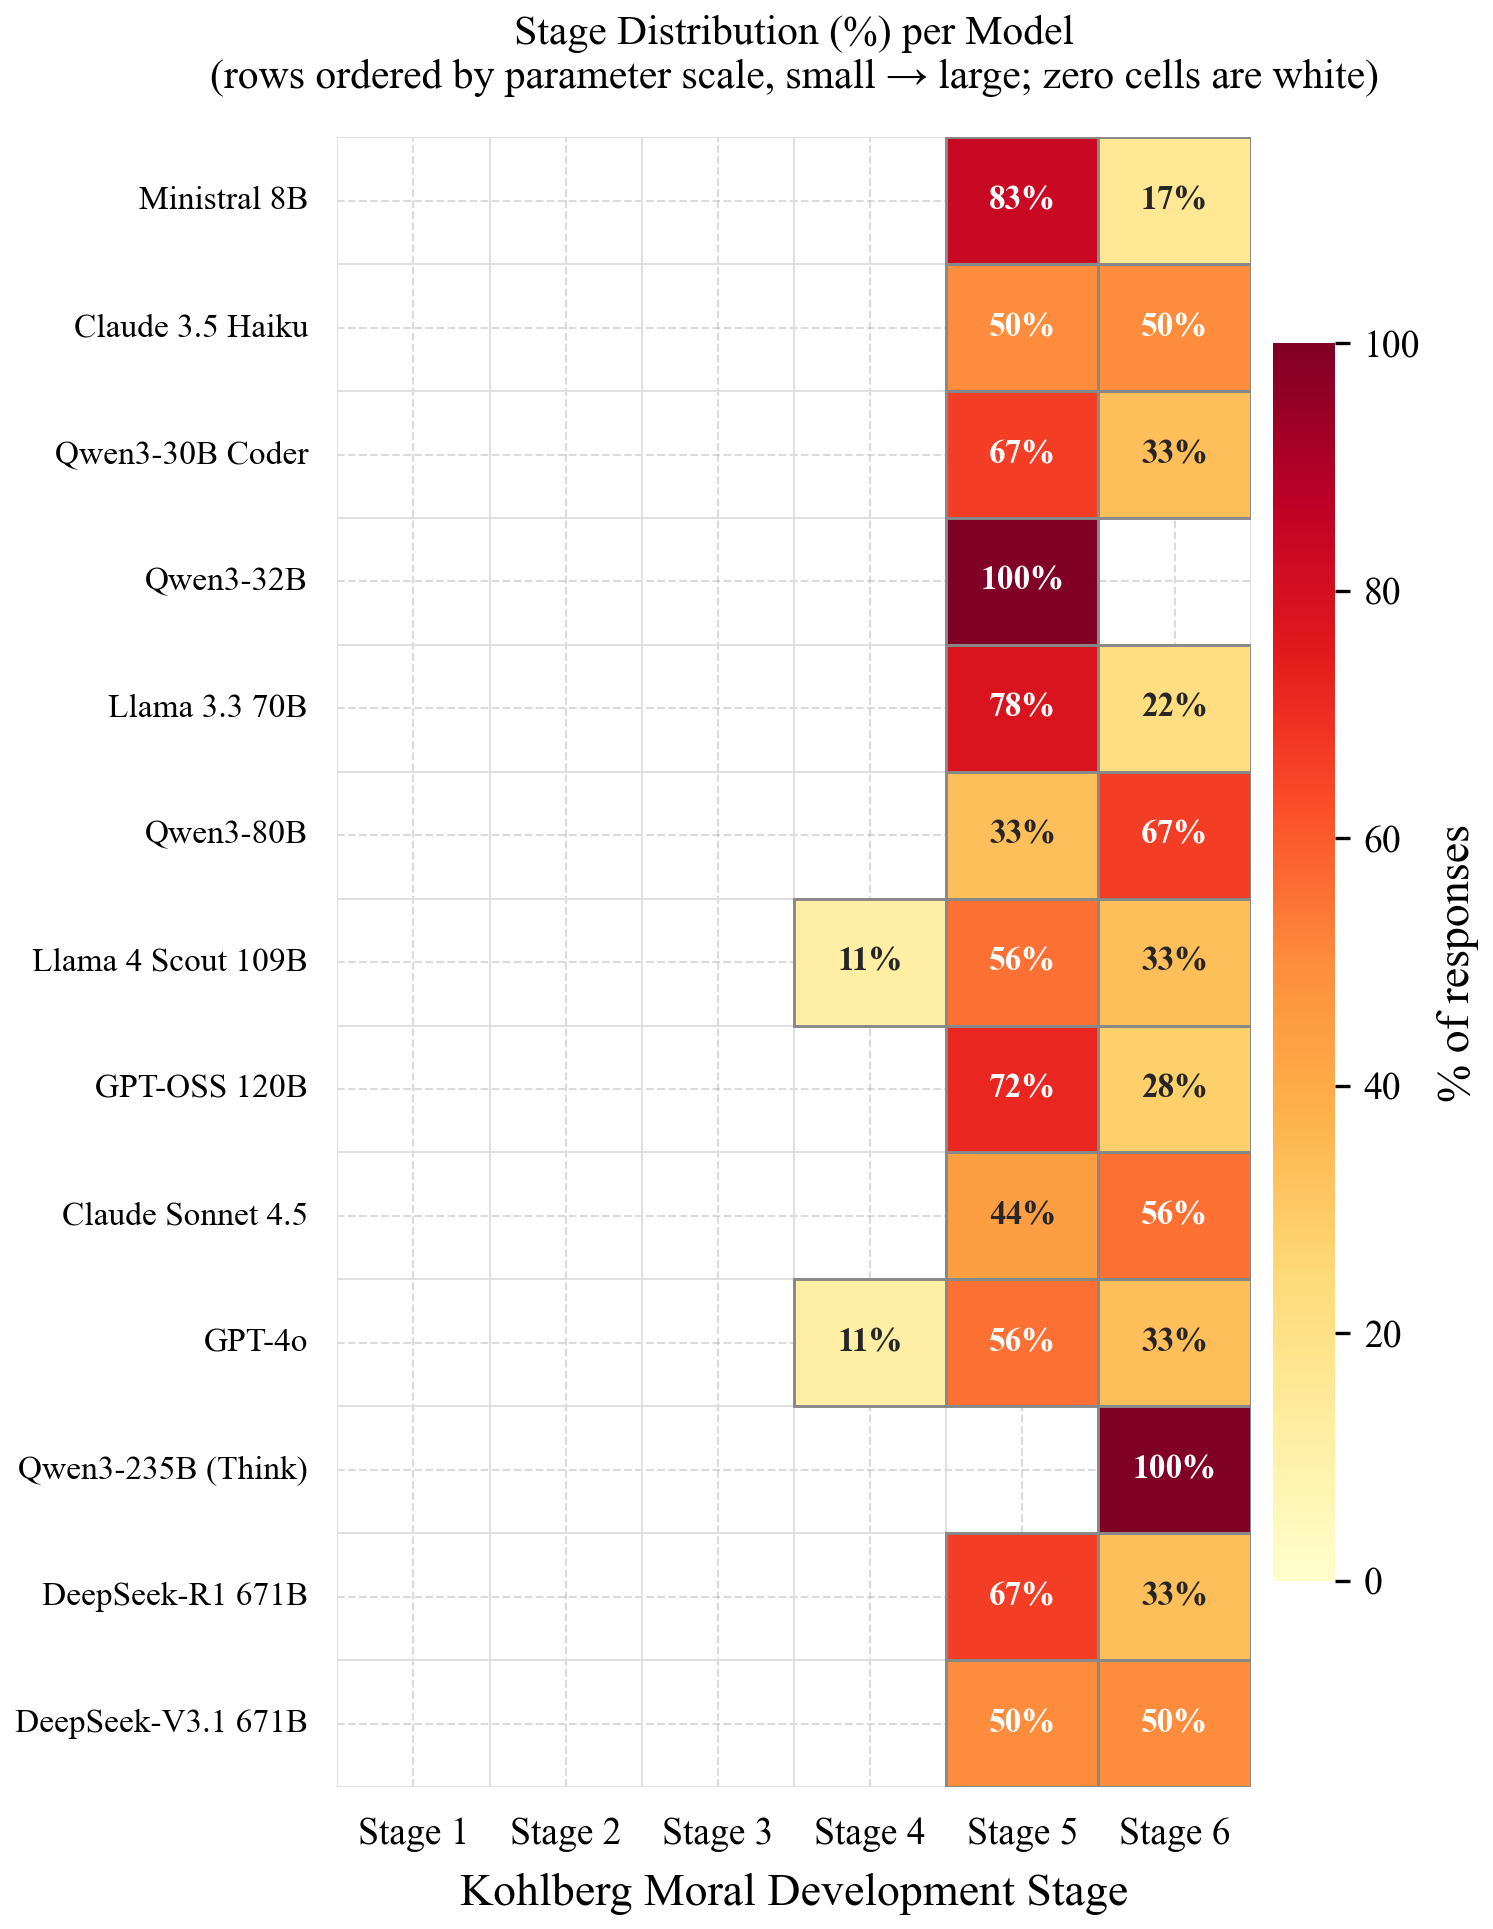
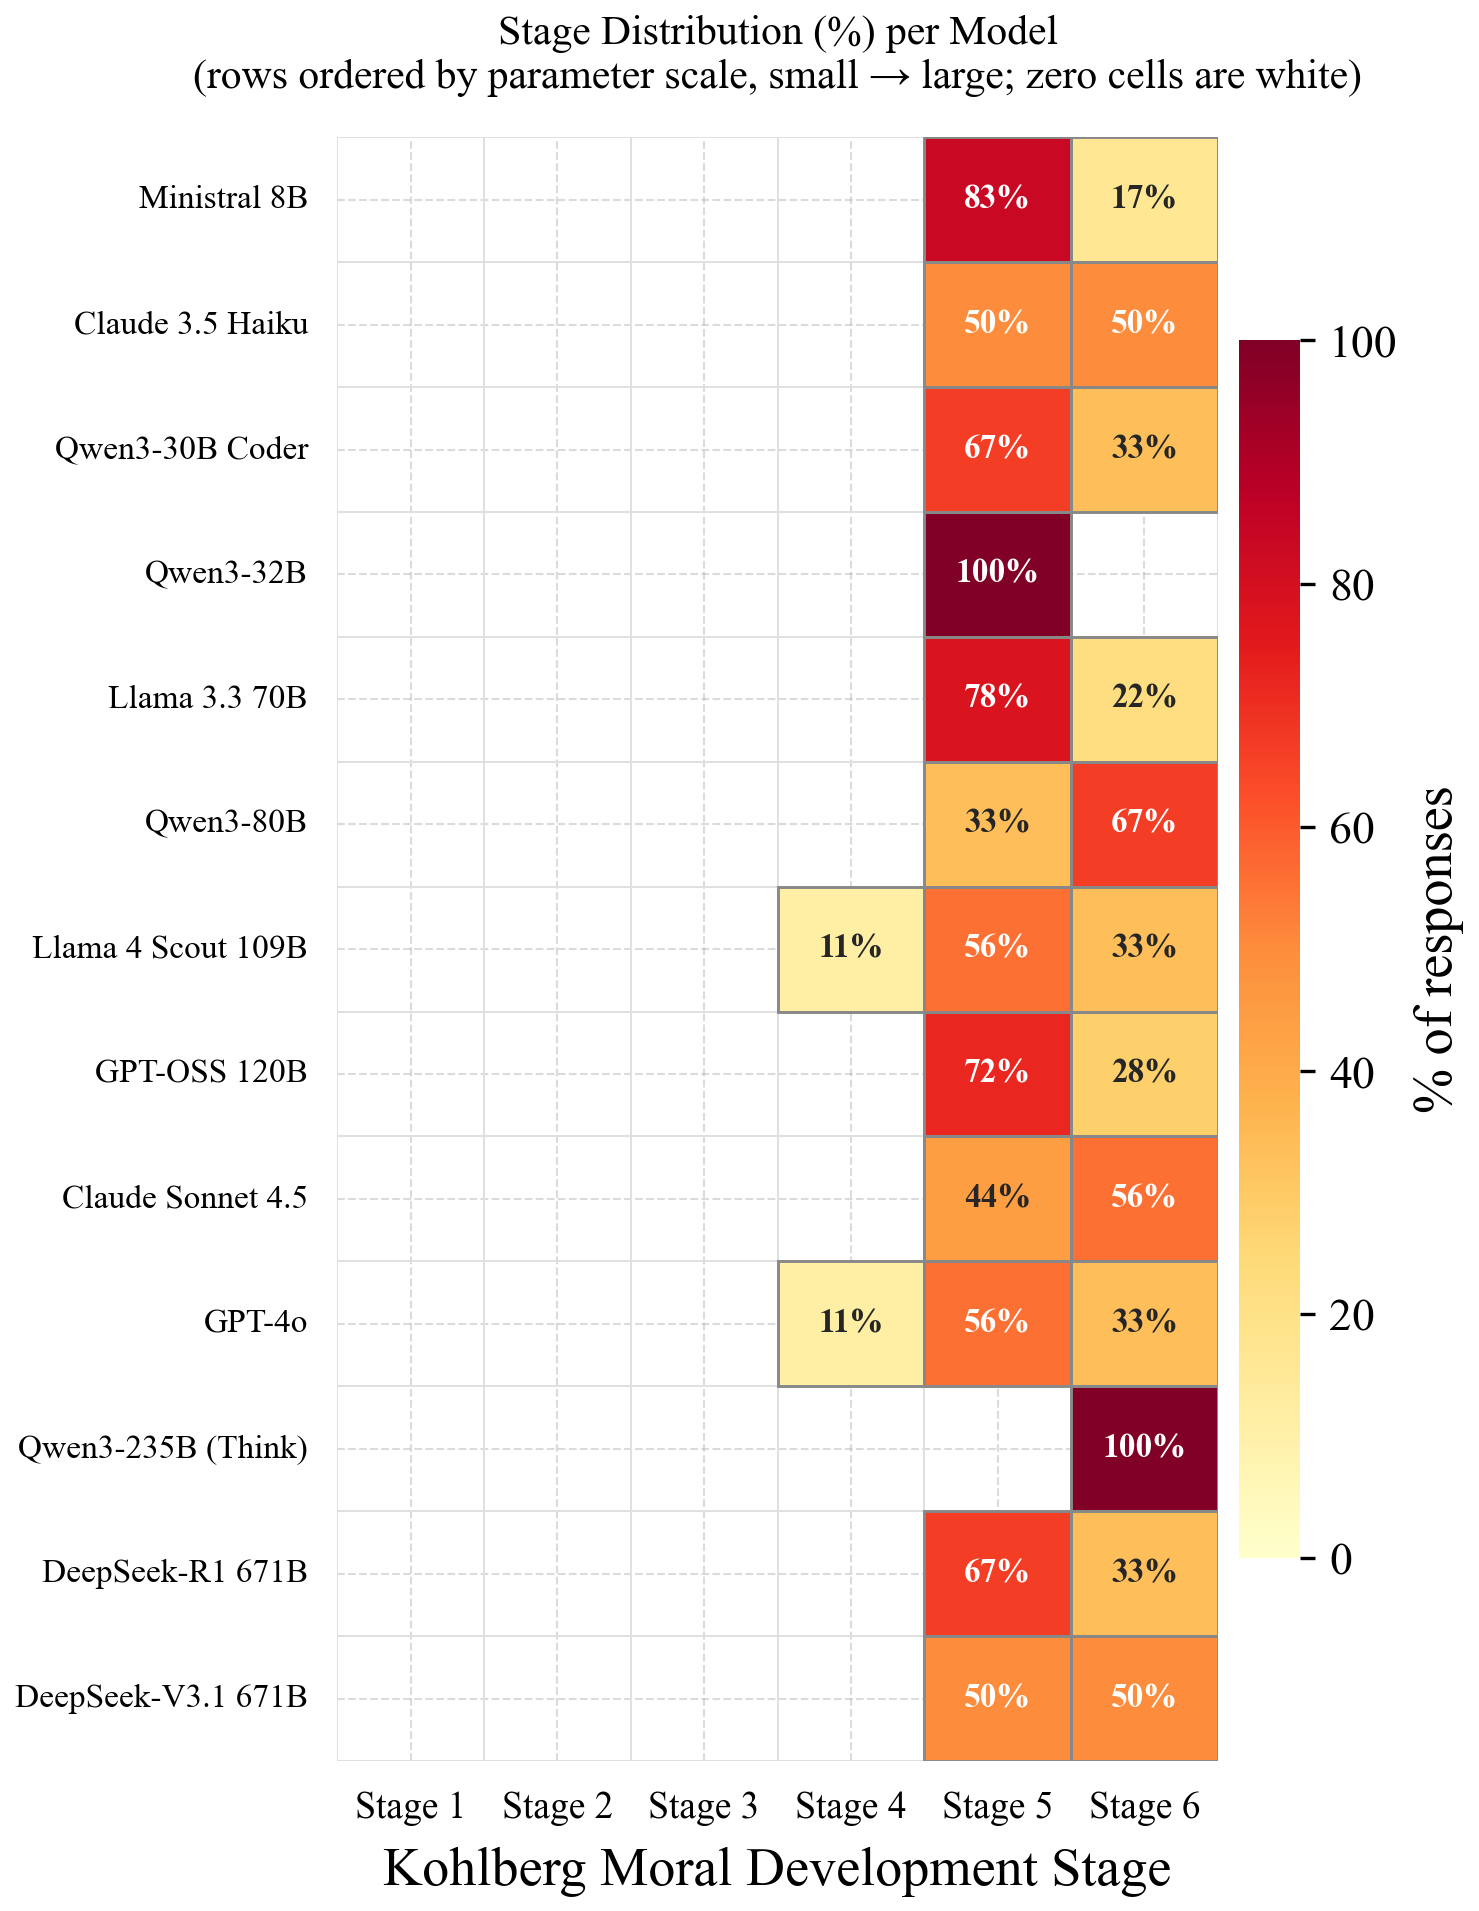
Changes in the analysis1 graphs

diff --git a/analysis1/visualizations.py b/analysis1/visualizations.py
@@ -122,23 +122,24 @@ def plot_box_by_model(
 
         # Annotate median
         ax.text(med_val + 0.04, i + 1.32, f"{med_val:.1f}",
-                va="bottom", ha="left", fontsize=7.5,
+                va="bottom", ha="left", fontsize=10,
                 color=color, fontweight="bold")
 
     ax.set_yticks(range(1, n + 1))
-    ax.set_yticklabels(order, fontsize=8.5)
+    ax.set_yticklabels(order, fontsize=11)
     ax.set_xticks(range(1, 7))
     ax.set_xticklabels(
         ["S1\nObedience", "S2\nSelf-Interest", "S3\nConformity",
          "S4\nLaw & Order", "S5\nSocial Contract", "S6\nUniversal Ethics"],
-        fontsize=8.5,
+        fontsize=11,
+        rotation=30,
     )
     ax.set_xlabel("Kohlberg Moral Development Stage", labelpad=6)
     ax.set_title(
         "Distribution of Kohlberg Moral Reasoning Stage by Model\n"
         r"(ordered by parameter scale; $\diamondsuit$ = outlier, "
         "coloured line = median)",
-        fontsize=10, pad=10,
+        fontsize=13, pad=10,
     )
     ax.set_xlim(0.5, 6.7)
 
@@ -195,7 +196,7 @@ def plot_scatter_scale_stage(
         t = ax.text(
             row["log_params"], row["mean_stage"],
             row["display_name"],
-            fontsize=6.5, alpha=0.88,
+            fontsize=9.0, alpha=0.88,
         )
         texts.append(t)
 
@@ -234,7 +235,7 @@ def plot_scatter_scale_stage(
     ax.text(
         0.03, 0.97, corr_text,
         transform=ax.transAxes,
-        fontsize=7.5, va="top", ha="left",
+        fontsize=10, va="top", ha="left",
         bbox=dict(boxstyle="round,pad=0.4", facecolor="white",
                   edgecolor="#cccccc", linewidth=0.6, alpha=0.92),
     )
@@ -252,7 +253,7 @@ def plot_scatter_scale_stage(
     tick_lbl = [nice_labels[nice_log.index(t)] for t in tick_log]
 
     ax.set_xticks(tick_log)
-    ax.set_xticklabels(tick_lbl, fontsize=9)
+    ax.set_xticklabels(tick_lbl, fontsize=11)
     ax.set_xlim(x_lo, x_hi)
 
     # Light vertical grid lines at the nice ticks
@@ -261,14 +262,14 @@ def plot_scatter_scale_stage(
 
     # ── Y-axis ────────────────────────────────────────────────────────────
     ax.set_yticks(range(1, 7))
-    ax.set_yticklabels([f"Stage {i}" for i in range(1, 7)], fontsize=8.5)
+    ax.set_yticklabels([f"Stage {i}" for i in range(1, 7)], fontsize=11)
     ax.set_ylim(4.5, 6.7)
 
     ax.set_xlabel("Model Scale  (approximate parameter count, log scale)", labelpad=6)
     ax.set_ylabel("Mean Kohlberg Stage  +/- 95% Bootstrap CI", labelpad=5)
     ax.set_title(
         "Model Scale vs. Moral Reasoning Stage",
-        fontsize=11, pad=10, fontweight="bold",
+        fontsize=14, pad=10, fontweight="bold",
     )
 
     # Legend — anchor to the right of the axes; data cluster is at lower-right
@@ -277,8 +278,8 @@ def plot_scatter_scale_stage(
         mlines.Line2D([], [], color="#555555", linewidth=1.2,
                       linestyle="--", label="Linear trend (OLS)")
     )
-    ax.legend(handles=leg_handles, title="Provider", fontsize=7.5,
-              title_fontsize=8, loc="upper left", bbox_to_anchor=(1.02, 1),
+    ax.legend(handles=leg_handles, title="Provider", fontsize=10,
+              title_fontsize=11, loc="upper left", bbox_to_anchor=(1.02, 1),
               framealpha=0.92, edgecolor="#cccccc", borderaxespad=0)
 
     fig.tight_layout()

diff --git a/analysis1/config.py b/analysis1/config.py
@@ -67,13 +67,13 @@ PUBLICATION_STYLE: dict = {
     # Font
     "font.family":       "serif",
     "font.serif":        ["Times New Roman", "DejaVu Serif", "Palatino"],
-    "font.size":         10,
-    "axes.titlesize":    12,
-    "axes.labelsize":    11,
-    "xtick.labelsize":   9,
-    "ytick.labelsize":   9,
-    "legend.fontsize":   9,
-    "legend.title_fontsize": 9,
+    "font.size":         12,
+    "axes.titlesize":    14,
+    "axes.labelsize":    13,
+    "xtick.labelsize":   11,
+    "ytick.labelsize":   11,
+    "legend.fontsize":   11,
+    "legend.title_fontsize": 11,
 
     # Lines
     "axes.linewidth":    0.8,
